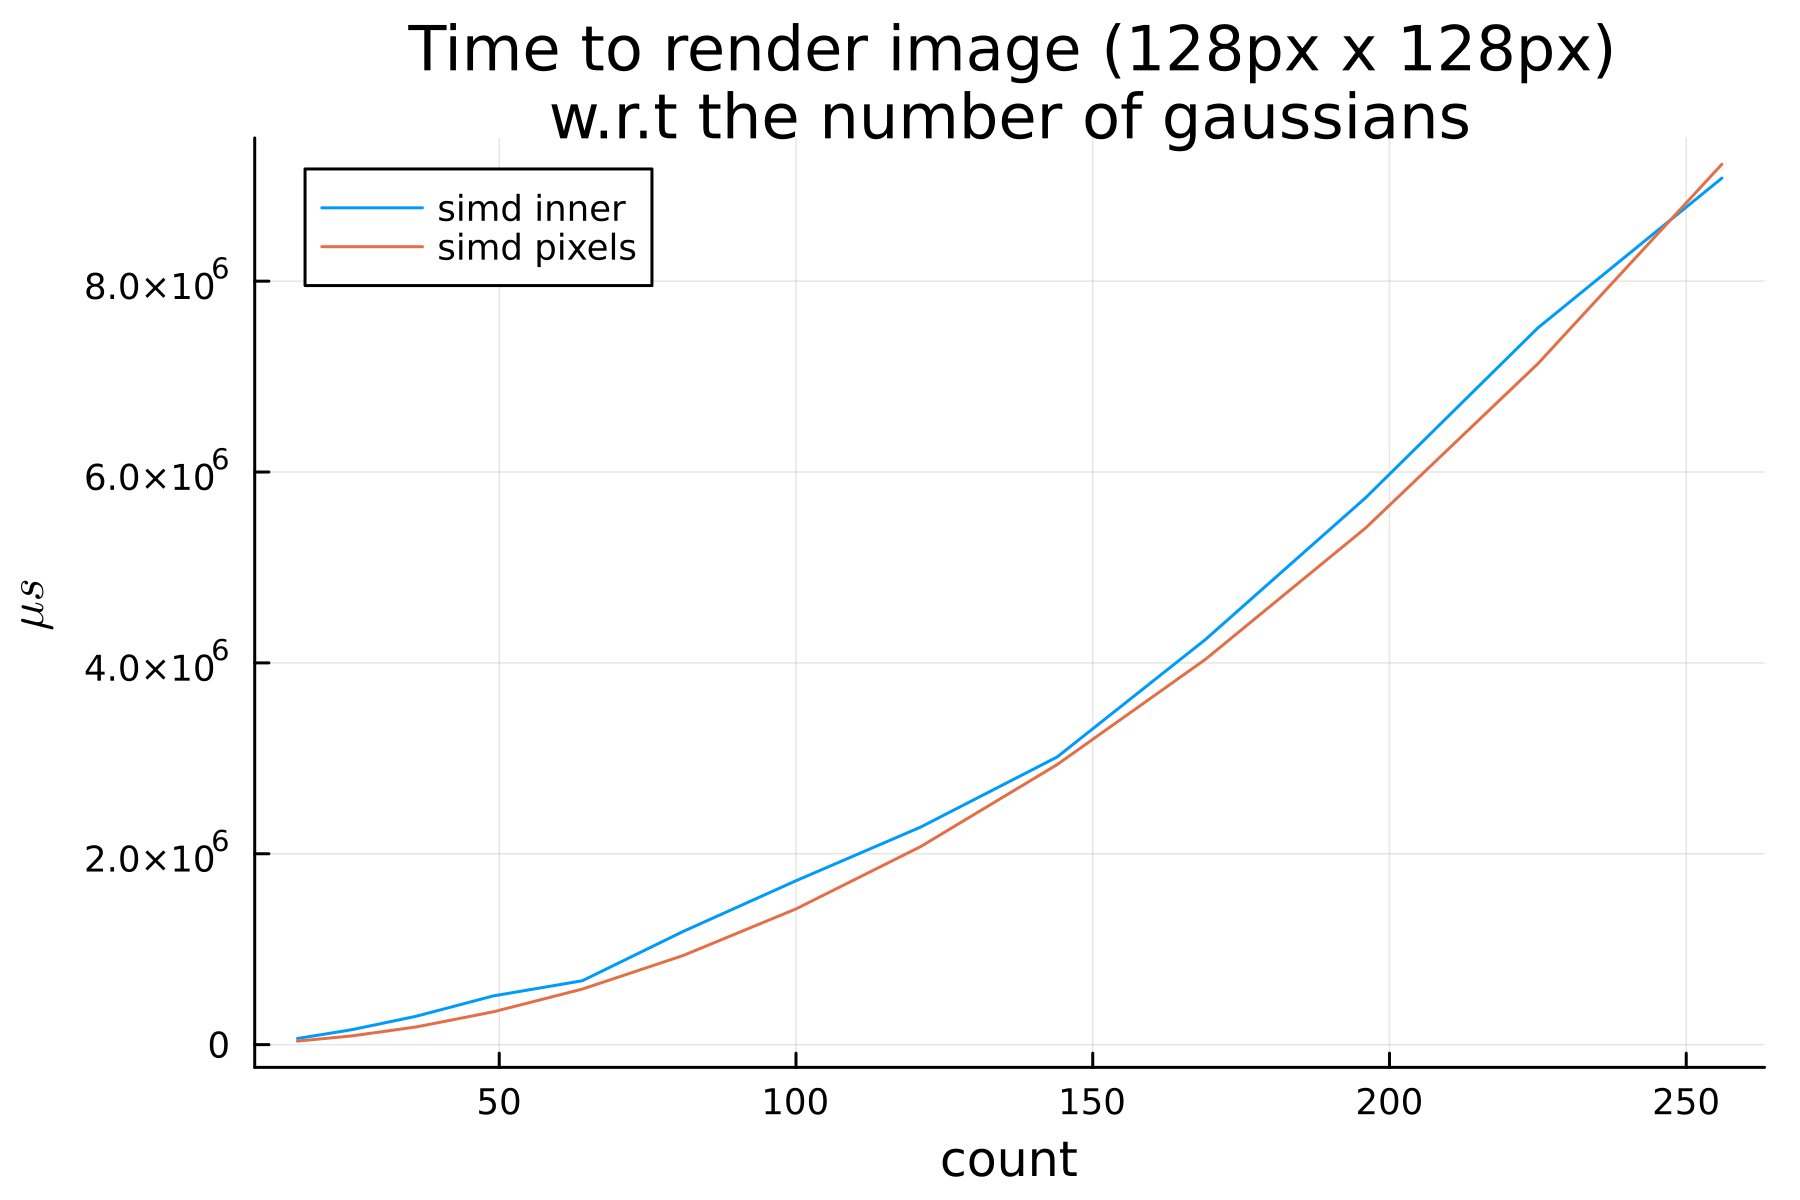
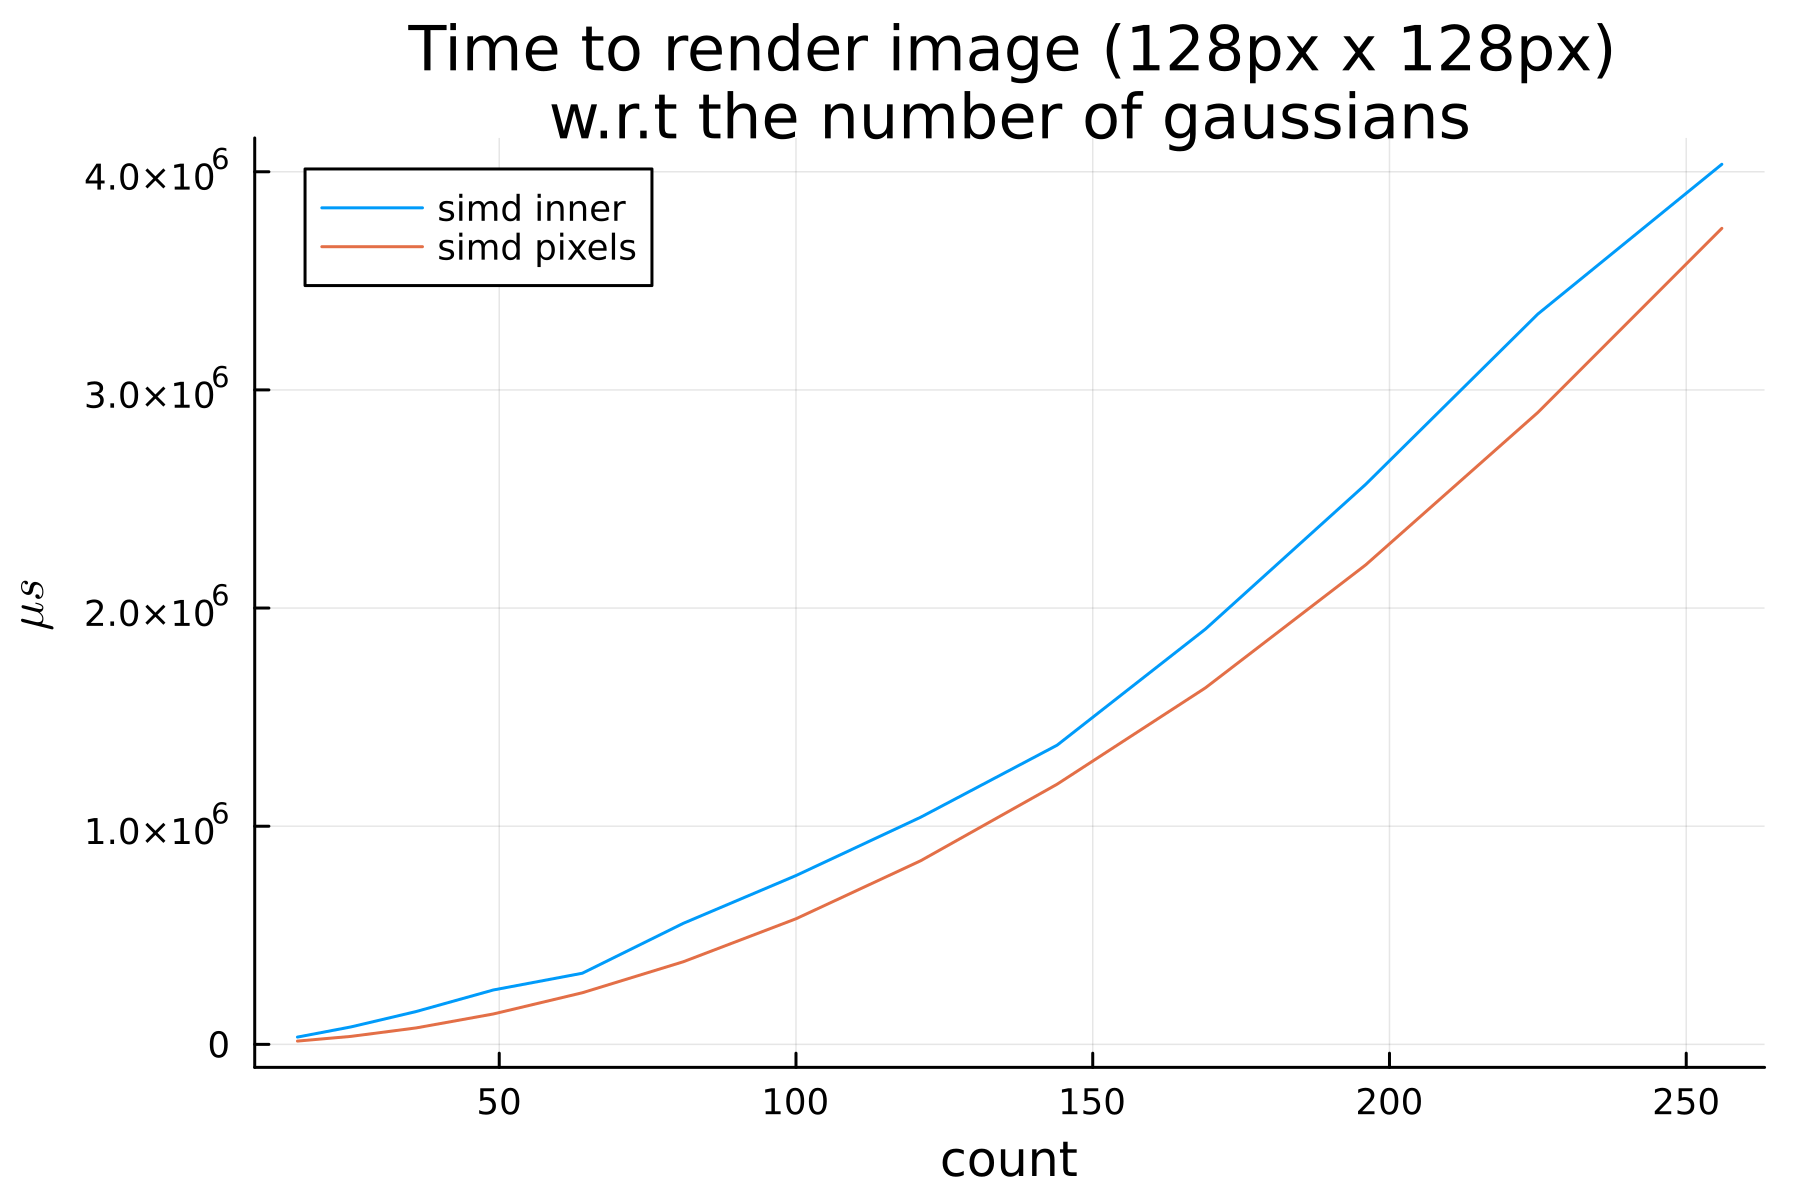
Added ROCm implementation for comparison purposes.

diff --git a/src/volumetric-ray-tracer/main.cpp b/src/volumetric-ray-tracer/main.cpp
@@ -92,7 +92,7 @@ int main(i32 argc, char **argv)
     bool use_taylor_approx = false;
     bool use_abramowitz_approx = false;
     bool use_fast_exp = false;
-    bool use_simd_transmittance = false;
+    bool use_simd_transmittance = true;
     bool use_simd_pixels = false;
 
     if (!renderer.init(width, height, "Test")) return EXIT_FAILURE;
